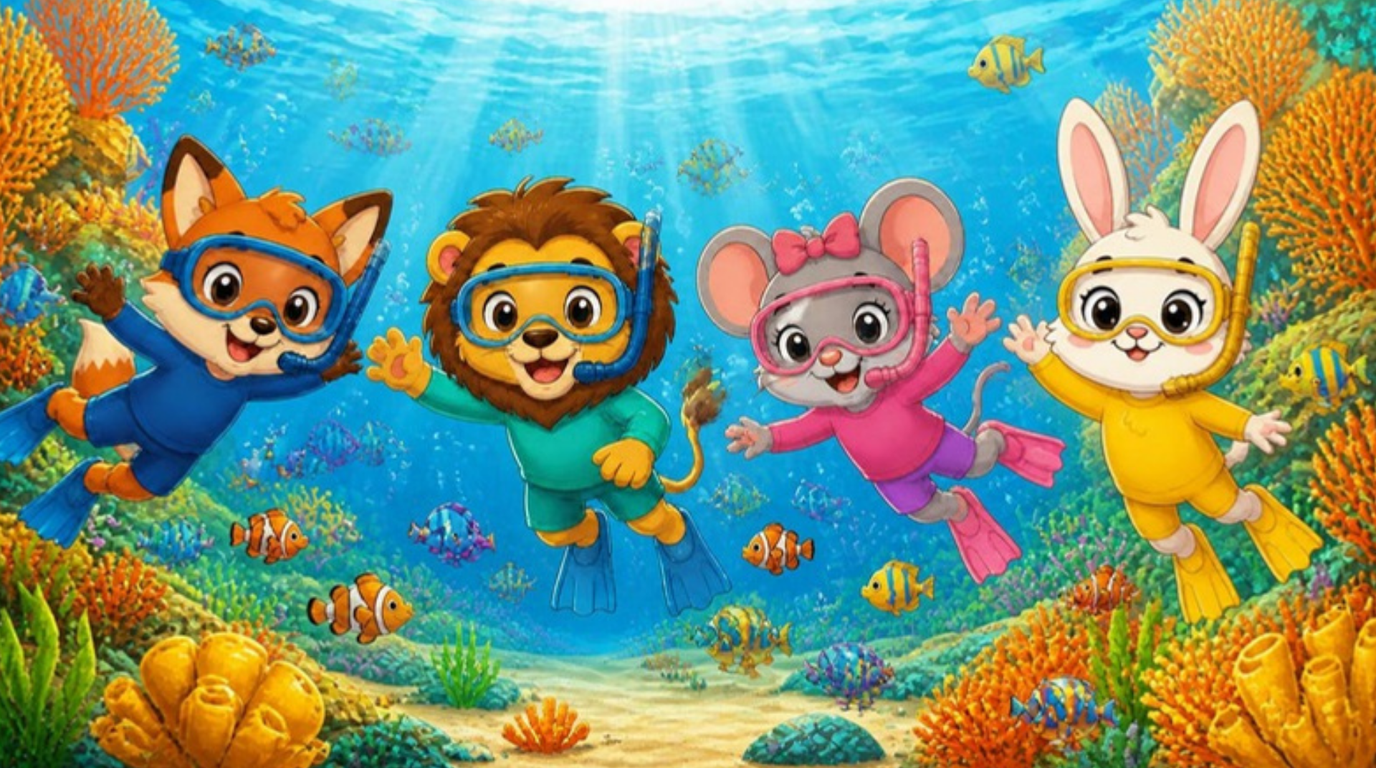
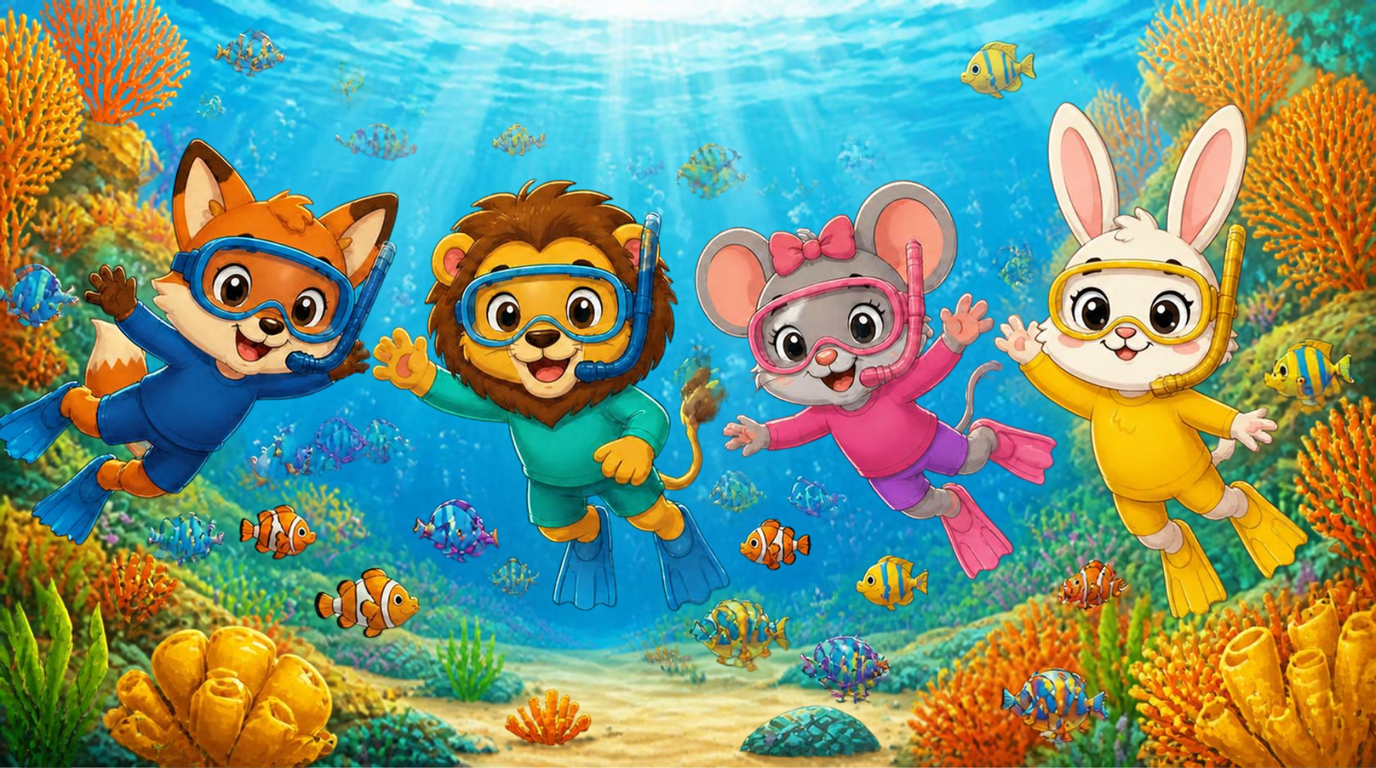
A1 U6: Treasure Reef story GIFs for pages 6-9 (only the named part moves) [preview]
Canva layer separation per page; only the fish / turtle / boat / shark layer moves,
each frame diffed against frame A. Reader pages 6-9 in Lessons 3 and 4 use the
animated WebPs; picture tasks keep the stills.

Claude-Session: https://claude.ai/code/session_01Ef7PvgJjW5dJWNJhbcvK62

diff --git a/src/content/playground-library/ocean/scenes.ts b/src/content/playground-library/ocean/scenes.ts
@@ -32,6 +32,9 @@ const SONG_GOODBYE = `${WT}/audio/goodbye-song.mp3?v=3`;
 
 /** The Treasure Reef — Canva story pictures (scripts/canva-art-request.json); pages 4-12 come with Lessons 2-5. */
 export const reefPage = (n: number) => `${S}/bg-a1u6-story-${n}-wide.png`;
+/** Story GIFs (owner-approved scenario docs/scenarios/a1u6-treasure-reef-gifs.md, 2026-10-16 "Yes"): two Canva frames of
+ *  the same picture (layer-separated, only the named part moves) as an animated WebP. Only the Reader uses them. */
+const reefGif = (n: number) => `/lep1/gifs/a1u6-story-${n}.webp`;
 const bgBeach = reefPage(1);
 
 /** The sea animals (cut-out stickers, same style as the whale and octopus). */
@@ -53,10 +56,10 @@ export const TREASURE_REEF: ReaderPage[] = [
   { img: reefPage(3), lines: [{ text: 'It is a whale. It is big! It is a turtle.' }], check: { who: 'bella', question: 'What is big?', answer: 'The whale', options: [{ label: 'The whale', img: SEA.whale }, { label: 'The turtle', img: SEA.turtle }, { label: 'The starfish', img: SEA.starfish }] } },
   { img: reefPage(4), lines: [{ text: 'This is Bub. Bub is an octopus. He is hiding.' }], check: { who: 'mia', question: 'What is Bub doing?', answer: 'Hiding', options: [{ label: 'Hiding', img: item('bub-hiding') }, { label: 'Sleeping', img: item('starfish-sleeping') }, { label: 'Walking', img: item('crab-walking') }] } },
   { img: reefPage(5), lines: [{ text: 'The crab is walking. The starfish is sleeping.' }], check: { who: 'pip', question: 'What is the crab doing?', answer: 'Walking', options: [{ label: 'Eating' }, { label: 'Walking' }, { label: 'Sleeping' }] } },
-  { img: reefPage(6), lines: [{ text: 'The friends are diving. Fish are swimming!' }], check: { who: 'bella', question: 'What are the fish doing?', answer: 'Swimming', options: [{ label: 'Sleeping' }, { label: 'Swimming' }, { label: 'Walking' }] } },
-  { img: reefPage(7), lines: [{ text: 'The turtle lives on the reef. It eats sea grass.' }], check: { who: 'mia', question: 'What does the turtle eat?', answer: 'Sea grass', options: [{ label: 'Fish', img: SEA.fish }, { label: 'Sea grass', img: item('sea-grass') }, { label: 'Shells', img: SEA.shell }] } },
-  { img: reefPage(8), lines: [{ text: 'Oh no! It is windy. The waves are big.' }], check: { who: 'bella', question: 'What is the weather like?', answer: 'Windy', options: [{ label: 'Sunny' }, { label: 'Windy' }, { label: 'Snowy' }] } },
-  { img: reefPage(9), lines: [{ text: 'Mia: Is it the chest? Shark: No, it isn’t!' }], check: { who: 'leo', question: 'Is it the chest?', answer: 'No, it isn’t.', options: [{ label: 'Yes, it is.' }, { label: 'No, it isn’t.' }] } },
+  { img: reefGif(6), lines: [{ text: 'The friends are diving. Fish are swimming!' }], check: { who: 'bella', question: 'What are the fish doing?', answer: 'Swimming', options: [{ label: 'Sleeping' }, { label: 'Swimming' }, { label: 'Walking' }] } },
+  { img: reefGif(7), lines: [{ text: 'The turtle lives on the reef. It eats sea grass.' }], check: { who: 'mia', question: 'What does the turtle eat?', answer: 'Sea grass', options: [{ label: 'Fish', img: SEA.fish }, { label: 'Sea grass', img: item('sea-grass') }, { label: 'Shells', img: SEA.shell }] } },
+  { img: reefGif(8), lines: [{ text: 'Oh no! It is windy. The waves are big.' }], check: { who: 'bella', question: 'What is the weather like?', answer: 'Windy', options: [{ label: 'Sunny' }, { label: 'Windy' }, { label: 'Snowy' }] } },
+  { img: reefGif(9), lines: [{ text: 'Mia: Is it the chest? Shark: No, it isn’t!' }], check: { who: 'leo', question: 'Is it the chest?', answer: 'No, it isn’t.', options: [{ label: 'Yes, it is.' }, { label: 'No, it isn’t.' }] } },
 ];
 
 const helloSong = (id: string, bg: string): Scene => ({

diff --git a/docs/scenarios/a1u6-treasure-reef-gifs.md b/docs/scenarios/a1u6-treasure-reef-gifs.md
@@ -1,6 +1,6 @@
 # Scenario: A1 Unit 6 story *The Treasure Reef*, pages 6-9, four Canva story GIFs
 
-**Status: approved (owner, 2026-10-16: "Yes"). Making frame B pictures and the GIFs.**
+**Status: approved (owner, 2026-10-16: "Yes"). Built 2026-10-16: `public/lep1/gifs/a1u6-story-6..9.webp`, in the Reader of Lessons 3 and 4.**
 
 Owner, 2026-10-16: *"You can generate them as a GIF video."* A1 has no story videos; stories move with Canva GIFs made from the
 approved story pictures, after a written scenario and the owner's OK (CLAUDE.md "A1 lessons — length and story GIFs").
@@ -47,3 +47,20 @@ Pages that stay still: 1-5 (no new art yet; they keep the earlier pictures).
 
 ## Approval
 - Owner: 2026-10-16, "Yes"
+
+## How they were made (2026-10-16)
+An AI-redrawn frame B moved the whole picture (19 % of the pixels, the friends too), so it was dropped. Instead each page was
+split into layers with Canva `separate-image-layers` (characters, fish, turtle, boat, shark, corals and an inpainted
+background each became their own element) and ONLY the element the line names was moved; every frame was diffed against
+frame A to prove nothing else changed.
+
+| GIF | Layered design | What moves | Frames | Changed pixels |
+|---|---|---|---|---|
+| 1 (p6) | DAHYIs04Hrg | the 21 small fish, about 24 px forward | A, B · 0.4 s each | 3.7 % (fish only) |
+| 2 (p7) | DAHYKAGbNjg | the turtle tilts its head down into the sea grass (−3°) and back: the munch | A, B · 0.5 s each | 9.5 % (turtle only) |
+| 3 (p8) | DAHYKCmj3Cw | the boat with the four friends rocks ±2.5° | right, left · 0.7 s each | 11.5 % (boat + friends only) |
+| 4 (p9) | DAHYKL0Fc5w | the shark's body turns ±4° (shakes its head), smile unchanged | 4 × (left, right) 0.35 s, then still 1 s | 2.6 % (shark only) |
+
+Pages 6, 7 and 9 now use the layered frame A as their still too, so the still and the GIF are the same picture. Page 8 keeps
+the original still (the level boat). The turtle's mouth is not redrawn; the head-dip into the grass is the munch, so
+nothing appears or disappears.
